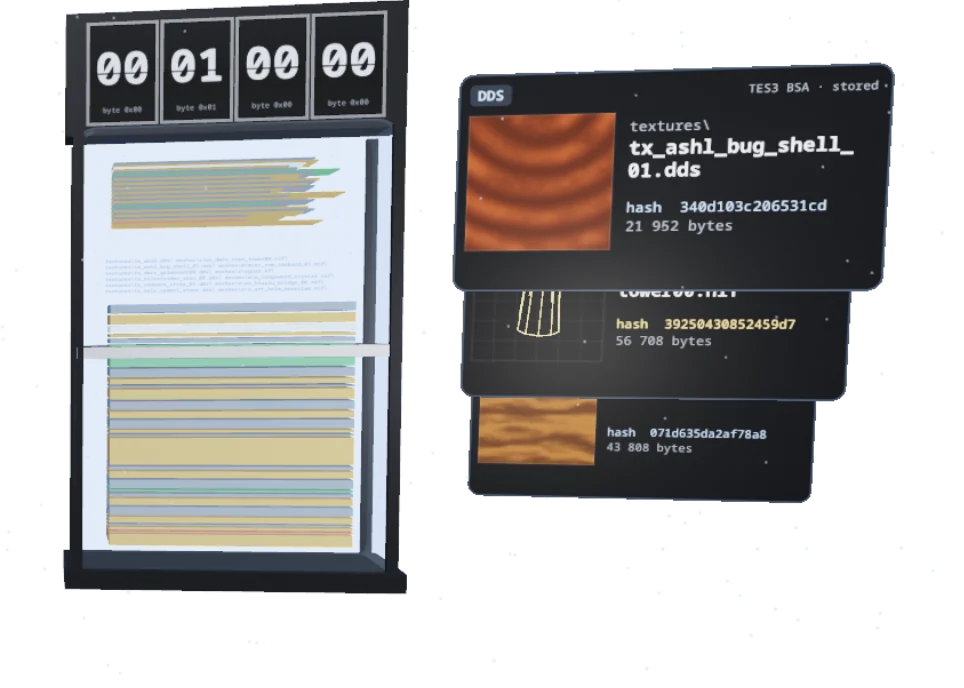
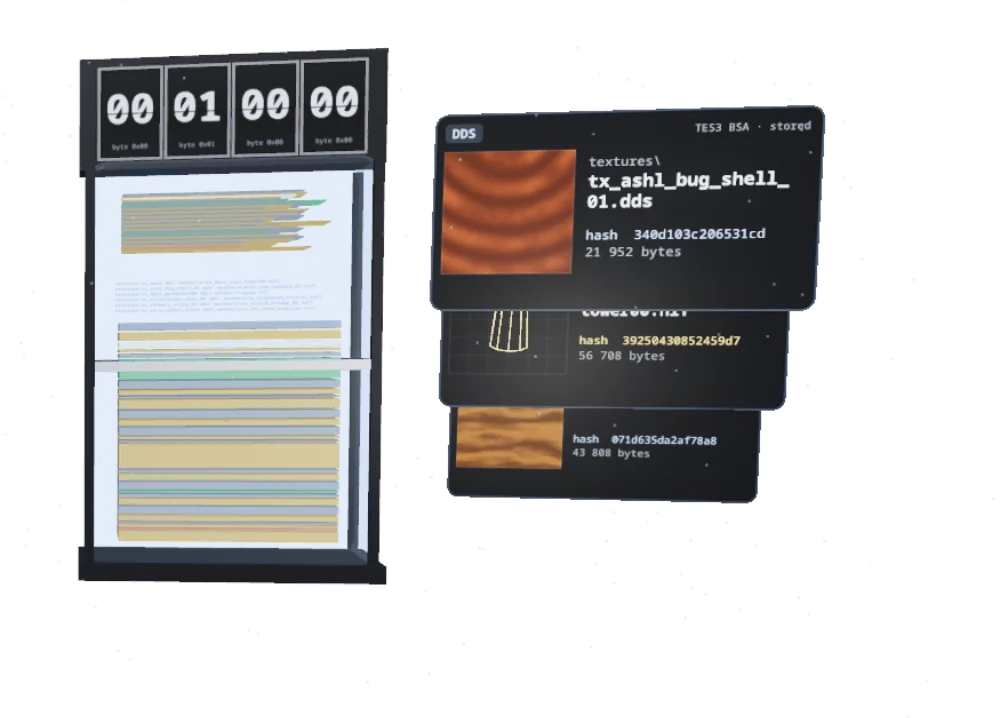
FIX: Keep the whole archive inside the hero, and light only dump rows wholly on screen
The cartridge's split-flap crown ran off the hero's top, a little at rest and plainly in the
hidden interaction, when the upper shell rose and the eruption flew towards the camera. Every
point the scene can reach is now projected through the camera at its extremes: the cartridge at
full lean, the card stack and a card in flight, the lookup tag, and the secret's mip chain and
eruption. The rig is scaled and placed until that reach fills the space beside the text, or
above it on a phone. The secret now opens by dropping the lower shell rather than raising the
crown, and the eruption keeps to the scene's own width and depth.

The dump sampled its glyphs with derived gradients, which pick the coarsest mip along every cell
edge and drew a box round each glyph; the gradients are now given. The read head lights only rows
whose sixteen bytes are all on screen, so a phone, narrower than a row, shows none. The still
matches the new fit.

diff --git a/static/js/dream-archive-hero.js b/static/js/dream-archive-hero.js
@@ -940,12 +940,16 @@ const DUMP_FRAGMENT = /* glsl */ `
   varying vec2 vUv;
   ${SCRUB}
 
+  // The cell coordinate jumps at every cell edge, so the gradients are given, not derived: a
+  // derived one would pick the coarsest mip along each edge and outline every glyph.
   float glyphAlpha(float code, vec2 cell) {
     float index = code - 32.0;
     vec2 tile = vec2(mod(index, 16.0), floor(index / 16.0));
     vec2 inner = vec2(0.06, 0.04) + cell * vec2(0.88, 0.92);
     vec2 uv = vec2((tile.x + inner.x) / 16.0, 1.0 - (tile.y + inner.y) / 6.0);
-    return texture2D(tAtlas, uv).a;
+    vec2 gradX = vec2(0.88 / (16.0 * uCell.x), 0.0);
+    vec2 gradY = vec2(0.0, 0.92 / (6.0 * uCell.y));
+    return textureGrad(tAtlas, uv, gradX, gradY).a;
   }
   float hexCode(float nibble) {
     return nibble < 10.0 ? 48.0 + nibble : 87.0 + nibble;
@@ -996,8 +1000,10 @@ const DUMP_FRAGMENT = /* glsl */ `
       weight = value >= 32.0 && value < 127.0 ? 0.72 : 0.22;
     }
     float alpha = code > 32.5 ? glyphAlpha(code, cell) : 0.0;
-    bool hot = byteIndex >= 0.0 && inside(byteIndex, uSpan);
-    bool warm = byteIndex >= 0.0 && inside(byteIndex, uSpan2);
+    float blockLeft = block * 82.0 * uCell.x - uPan.x;
+    bool whole = blockLeft >= 0.0 && blockLeft + 78.0 * uCell.x <= uResolution.x;
+    bool hot = whole && byteIndex >= 0.0 && inside(byteIndex, uSpan);
+    bool warm = whole && byteIndex >= 0.0 && inside(byteIndex, uSpan2);
     vec2 screen = gl_FragCoord.xy;
     float focus = exp(-dot(screen - uFocus.xy, screen - uFocus.xy) / max(uFocus.z * uFocus.z, 1.0));
     vec2 p = gl_FragCoord.xy;
@@ -1246,7 +1252,7 @@ function placement(root) {
     { x0: shell.left - 8, x1: shell.right + 8, y0: box.top + 6, y1: top - 10, above: true },
   ].map((region) => ({ ...region, height: Math.max(0, Math.min(region.y1 - region.y0, (region.x1 - region.x0) / ASPECT)) }));
   const best = candidates.reduce((a, b) => (b.height > a.height ? b : a));
-  const height = Math.min(best.height * 0.96, 470);
+  const height = Math.min(best.height, 470);
   const width = height * ASPECT;
   const x = best.above ? (best.x0 + best.x1) / 2 : Math.min(best.x1 - width / 2, (best.x0 + best.x1) / 2 + (best.x1 - best.x0 - width) * 0.3);
   const textBox = {
@@ -1349,6 +1355,59 @@ const SCENE_HEIGHT = 2.4;
 const CART_X = -0.82;
 const STACK = { x: 0.46, y: 0.5, pitch: 0.36, depth: 0.2, turn: -0.26, keep: 4 };
 const SECRET_WORD = 'btdx';
+
+// Everything the scene can draw, in the rig's units, at its extremes: the cartridge at every lean
+// with its lower shell dropped, the card stack and a card in flight, the lookup tag, and the
+// secret's mip chain and eruption. Points, not boxes: the camera's perspective is applied to them.
+function sceneReach() {
+  const points = [];
+  const euler = new THREE.Euler();
+  const add = (x, y, z) => points.push(new THREE.Vector3(x, y, z));
+  // The crown sways a little; the lower shell, dropped by the secret, also tilts.
+  const tilt = new THREE.Euler();
+  for (const [y, rz] of [[CART.h / 2 + 0.39, 0.015], [-CART.h / 2 - 0.07 - 0.4, 0.06]]) {
+    for (const x of [-0.53, 0.53]) for (const z of [-0.26, 0.26]) for (const sway of [-rz, rz]) {
+      tilt.set(0, 0, sway);
+      const corner = new THREE.Vector3(x, y, z).applyEuler(tilt);
+      for (const rx of [-0.17, 0, 0.17]) for (const ry of [-0.76, -0.55, -0.32, -0.1, 0.12]) {
+        euler.set(rx, ry, 0.012);
+        const v = corner.clone().applyEuler(euler);
+        add(v.x + CART_X, v.y + 0.025, v.z);
+      }
+    }
+  }
+  const cardHalf = { w: 0.61, h: 0.61 * (CARD.h / CARD.w) };
+  const cardCorners = (center, size, turn) => {
+    euler.set(0.03, turn, 0);
+    for (const sx of [-1, 1]) for (const sy of [-1, 1]) {
+      const v = new THREE.Vector3(sx * cardHalf.w * size, sy * cardHalf.h * size, 0).applyEuler(euler);
+      add(center.x + v.x, center.y + v.y, center.z + v.z);
+    }
+  };
+  for (let k = 0; k <= STACK.keep; k++) cardCorners(new THREE.Vector3(STACK.x + k * 0.07, STACK.y - k * STACK.pitch, 0.22 - k * STACK.depth), 1 - k * 0.07, STACK.turn);
+  for (const ry of [-0.76, 0.12]) {
+    euler.set(0, ry, 0);
+    const start = new THREE.Vector3(CART.w / 2, 0.6, 0.05).applyEuler(euler);
+    start.x += CART_X;
+    const slot = new THREE.Vector3(STACK.x, STACK.y, 0.22);
+    for (let step = 0; step <= 10; step++) {
+      const out = easeOut(step / 10);
+      const at = start.clone().lerp(slot, out);
+      at.y += Math.sin(out * Math.PI) * 0.28;
+      at.z += Math.sin(out * Math.PI) * 0.4;
+      cardCorners(at, 0.3 + 0.7 * out, STACK.turn * out);
+    }
+  }
+  for (const x of [-0.85, 0.85]) for (const y of [-0.13, 0.13]) add(CART_X + 0.12 + x, -CART.h / 2 - 0.2 + y, 0.45);
+  for (const x of [-1.42, 1.3]) for (const y of [0.98, -0.86]) add(x, y, 0.62);
+  for (let i = 0; i < 24; i++) {
+    const angle = (i / 24) * Math.PI * 2;
+    const x = Math.cos(angle) * 1.1 * 1.2;
+    const z = Math.sin(angle) * 1.1 * 0.45 + 0.3;
+    for (const dx of [-0.14, 0.14]) for (const y of [-0.42, 0.84]) for (const dz of [-0.14, 0.14]) add(x + dx, y, z + dz);
+  }
+  return points;
+}
 const SECRET_LENGTH = 9.4;
 
 // The scene ------------------------------------------------------------------------------------------------
@@ -2086,6 +2145,52 @@ async function mount(root) {
   const plane = new THREE.Plane(new THREE.Vector3(0, 0, 1), 0);
   const ndc = new THREE.Vector2();
   const quality = { level: 1, slow: 0 };
+  const reach = sceneReach();
+  const projected = new THREE.Vector3();
+
+  // Places the rig so its whole reach, seen through the camera, fills the box `place` gives.
+  function fitRig() {
+    const boxWidth = place.height * ASPECT;
+    const target = { x: place.x, y: place.y, width: boxWidth, height: place.height };
+    let cx = place.x;
+    let cy = place.y;
+    const unitsPerPixel = (at) => 2 * camera.position.distanceTo(at) * Math.tan(THREE.MathUtils.degToRad(camera.fov / 2)) / height;
+    const aim = () => {
+      ndc.set(cx / width * 2 - 1, -(cy / height * 2 - 1));
+      raycaster.setFromCamera(ndc, camera);
+      raycaster.ray.intersectPlane(plane, anchor);
+    };
+    aim();
+    scale = Math.max(0.05, place.height * unitsPerPixel(anchor) / SCENE_HEIGHT);
+    for (let pass = 0; pass < 6; pass++) {
+      rig.position.copy(anchor);
+      rig.scale.setScalar(scale);
+      rig.updateMatrixWorld(true);
+      let left = Infinity;
+      let right = -Infinity;
+      let top = Infinity;
+      let bottom = -Infinity;
+      for (const point of reach) {
+        projected.copy(point).applyMatrix4(rig.matrixWorld).project(camera);
+        const px = (projected.x + 1) / 2 * width;
+        const py = (1 - projected.y) / 2 * height;
+        left = Math.min(left, px);
+        right = Math.max(right, px);
+        top = Math.min(top, py);
+        bottom = Math.max(bottom, py);
+      }
+      const k = Math.min(target.width / (right - left), target.height / (bottom - top));
+      const settled = pass >= 3 && Math.abs(k - 1) < 0.002 && Math.abs((left + right) / 2 - target.x) < 0.5 && Math.abs((top + bottom) / 2 - target.y) < 0.5;
+      if (settled) break;
+      const factor = pass < 5 ? k : Math.min(k, 1) * 0.995;
+      scale *= factor;
+      cx = target.x - ((left + right) / 2 - cx) * factor;
+      cy = target.y - ((top + bottom) / 2 - cy) * factor;
+      aim();
+    }
+    rig.position.copy(anchor);
+    rig.scale.setScalar(scale);
+  }
 
   function layout() {
     const rect = root.getBoundingClientRect();
@@ -2107,12 +2212,7 @@ async function mount(root) {
 
     place = placement(root);
     placeStill();
-    ndc.set(place.x / width * 2 - 1, -(place.y / height * 2 - 1));
-    raycaster.setFromCamera(ndc, camera);
-    raycaster.ray.intersectPlane(plane, anchor);
-    const unitsPerPixel = 2 * camera.position.distanceTo(anchor) * Math.tan(THREE.MathUtils.degToRad(camera.fov / 2)) / height;
-    scale = Math.max(0.05, place.height * unitsPerPixel / SCENE_HEIGHT);
-    rig.scale.setScalar(scale);
+    fitRig();
     const cellPx = Math.max(7, Math.min(10, width / 150)) * dpr;
     dumpUniforms.uCell.value.set(cellPx, cellPx * 1.78);
     dumpUniforms.uResolution.value.set(w, h);
@@ -2254,9 +2354,7 @@ async function mount(root) {
     if (!reduceMotion) secret += dt;
     const t = secret;
     const open = ease(window01(t, 0.25, 1.0)) - ease(window01(t, 8.2, 9.0));
-    upperShell.position.y = open * 0.16;
-    lowerShell.position.y = -open * 0.34;
-    upperShell.rotation.z = open * 0.05;
+    lowerShell.position.y = -open * 0.4;
     lowerShell.rotation.z = -open * 0.04;
     const assembled = ease(window01(t, 2.4, 3.6)) - ease(window01(t, 6.6, 7.6));
     cartridge.position.z = -0.9 * assembled;
@@ -2269,8 +2367,8 @@ async function mount(root) {
       const seed = tiles.seeds[index];
       const erupt = easeOut(window01(t, 0.8 + index * 0.006, 2.4 + index * 0.004));
       const angle = seed * Math.PI * 2 + erupt * 5.5;
-      const radius = 0.15 + erupt * (1.0 + seed * 0.5);
-      const spiral = new THREE.Vector3(Math.cos(angle) * radius * 1.2, origin.y + erupt * 1.2 - erupt * erupt * 0.45 + seed * 0.3, Math.sin(angle) * radius * 0.6 + 0.4);
+      const radius = 0.15 + erupt * (0.8 + seed * 0.15);
+      const spiral = new THREE.Vector3(Math.cos(angle) * radius * 1.2, origin.y + erupt * 1.05 - erupt * erupt * 0.4 + seed * 0.25, Math.sin(angle) * radius * 0.45 + 0.3);
       const settle = ease(window01(t, 2.6 + spec.level * 0.18 + (index % 8) * 0.025, 3.9 + spec.level * 0.18 + (index % 8) * 0.025));
       const rank = tiles.repackRank[index];
       const repack = ease(window01(t, 6.6 + rank * 0.018, 7.2 + rank * 0.018));
